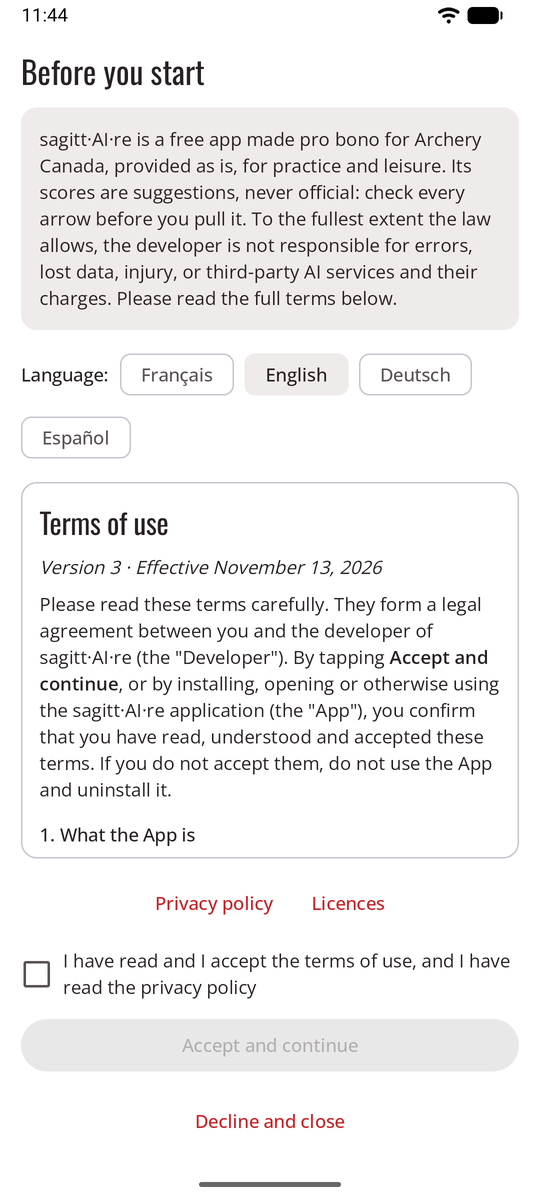
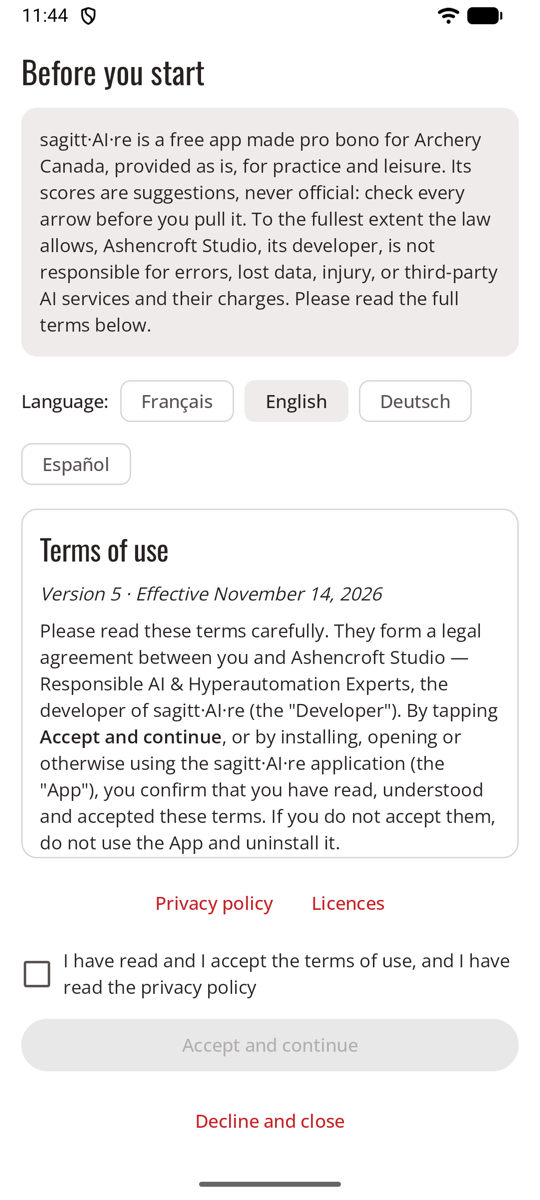
Update the sagitt·AI·re site

diff --git a/sagittaire/docs/index.fr.md b/sagittaire/docs/index.fr.md
@@ -166,4 +166,4 @@ Les mêmes données, le même comptage : choisissez celle qui vous plaît, et c
 
 sagitt·AI·re est un projet pro bono du Studio Ashencroft, en développement actif. Il fonctionne sur Android 8 et plus récent. **Il n’est pas sur Google Play :** on l’installe directement sur le téléphone. La [feuille de route](roadmap.md) montre ce qui est fait et ce qui vient. Utiliser sagitt·AI·re, c’est accepter ses [conditions d’utilisation](terms.md) : l’application est fournie telle quelle. Sa [politique de confidentialité](privacy-policy.md) explique ce qui reste sur votre téléphone et ce qui est envoyé.
 
[2 lines of base64/hex data omitted]

diff --git a/sagittaire/docs/terms.de.md b/sagittaire/docs/terms.de.md
@@ -1,10 +1,10 @@
 # Nutzungsbedingungen
 
-*Version 4 · Gültig ab 13. November 2026*
+*Version 5 · Gültig ab 14. November 2026*
 
 *Dies ist eine Übersetzung, die dir nur zur besseren Verständlichkeit bereitgestellt wird; maßgeblich sind allein die französische und die englische Fassung, die bei jeder Abweichung Vorrang haben.*
 
-Bitte lies diese Bedingungen sorgfältig. Sie bilden eine rechtliche Vereinbarung zwischen dir und dem Entwickler von sagitt·AI·re (der „Entwickler“). Indem du auf **Akzeptieren und weiter** tippst oder die Anwendung sagitt·AI·re (die „App“) installierst, öffnest oder auf andere Weise nutzt, bestätigst du, dass du diese Bedingungen gelesen, verstanden und akzeptiert hast. Wenn du sie nicht akzeptierst, nutze die App nicht und deinstalliere sie.
+Bitte lies diese Bedingungen sorgfältig. Sie bilden eine rechtliche Vereinbarung zwischen dir und Ashencroft Studio — Experten für verantwortungsvolle KI & Hyperautomatisierung, dem Entwickler von sagitt·AI·re (der „Entwickler“). Indem du auf **Akzeptieren und weiter** tippst oder die Anwendung sagitt·AI·re (die „App“) installierst, öffnest oder auf andere Weise nutzt, bestätigst du, dass du diese Bedingungen gelesen, verstanden und akzeptiert hast. Wenn du sie nicht akzeptierst, nutze die App nicht und deinstalliere sie.
 
 ## 1. Was die App ist
 

diff --git a/sagittaire/docs/index.es.md b/sagittaire/docs/index.es.md
@@ -166,4 +166,4 @@ Los mismos registros, la misma puntuación: elige la que te guste y cambia cuand
 
 sagitt·AI·re es un proyecto pro bono del Estudio Ashencroft, en desarrollo activo. Funciona en Android 8 y posteriores. **No está en Google Play:** se instala directamente en el teléfono. Consulta la [hoja de ruta](roadmap.md) para ver lo que está hecho y lo que viene. Usar sagitt·AI·re significa aceptar sus [condiciones de uso](terms.md): se ofrece tal cual. Su [política de privacidad](privacy-policy.md) explica qué se queda en tu teléfono y qué se envía.
 
[2 lines of base64/hex data omitted]

diff --git a/sagittaire/docs/index.de.md b/sagittaire/docs/index.de.md
@@ -166,4 +166,4 @@ Dieselben Daten, dieselbe Wertung: Nimm, was dir gefällt, und wechsle jederzeit
 
 sagitt·AI·re ist ein Pro-bono-Projekt von Ashencroft Studio und wird aktiv entwickelt. Es läuft ab Android 8. **Es ist nicht bei Google Play:** Die App wird direkt auf dem Handy installiert. In der [Roadmap](roadmap.md) steht, was fertig ist und was als Nächstes kommt. Wer sagitt·AI·re nutzt, akzeptiert seine [Nutzungsbedingungen](terms.md): Es wird bereitgestellt, wie es ist. Seine [Datenschutzerklärung](privacy-policy.md) erklärt, was auf deinem Handy bleibt und was gesendet wird.
 
[2 lines of base64/hex data omitted]

diff --git a/sagittaire/docs/terms.fr.md b/sagittaire/docs/terms.fr.md
@@ -1,8 +1,8 @@
 # Conditions d’utilisation
 
-*Version 4 · En vigueur le 13 novembre 2026*
+*Version 5 · En vigueur le 14 novembre 2026*
 
-Veuillez lire attentivement les présentes conditions. Elles constituent une entente juridique entre vous et le développeur de sagitt·AI·re (le « Développeur »). En touchant **Accepter et continuer**, ou en installant, en ouvrant ou en utilisant de toute autre façon l’application sagitt·AI·re (l’« Application »), vous confirmez avoir lu, compris et accepté les présentes conditions. Si vous ne les acceptez pas, n’utilisez pas l’Application et désinstallez-la.
+Veuillez lire attentivement les présentes conditions. Elles constituent une entente juridique entre vous et le Studio Ashencroft — Experts en IA & Hyper Automatisation Responsable, développeur de sagitt·AI·re (le « Développeur »). En touchant **Accepter et continuer**, ou en installant, en ouvrant ou en utilisant de toute autre façon l’application sagitt·AI·re (l’« Application »), vous confirmez avoir lu, compris et accepté les présentes conditions. Si vous ne les acceptez pas, n’utilisez pas l’Application et désinstallez-la.
 
 ## 1. L’Application
 

diff --git a/sagittaire/docs/index.md b/sagittaire/docs/index.md
@@ -166,4 +166,4 @@ Same records, same scoring: pick the one you like, and switch at any time in **S
 
 sagitt·AI·re is a pro bono project of Ashencroft Studio, in active development. It runs on Android 8 and later. **It isn't on Google Play:** it is installed directly on the phone. See the [roadmap](roadmap.md) for what's done and what's next. Using sagitt·AI·re means accepting its [terms of use](terms.md): it is provided as is. Its [privacy policy](privacy-policy.md) explains what stays on your phone and what is sent.
 
[2 lines of base64/hex data omitted]

diff --git a/sagittaire/docs/terms.es.md b/sagittaire/docs/terms.es.md
@@ -1,10 +1,10 @@
 # Condiciones de uso
 
-*Versión 4 · Vigente desde el 13 de noviembre de 2026*
+*Versión 5 · Vigente desde el 14 de noviembre de 2026*
 
 *Esta es una traducción que se ofrece solo para tu comodidad; únicamente las versiones en francés y en inglés hacen fe y, si hay cualquier diferencia, prevalecen sobre esta.*
 
-Lee atentamente estas condiciones. Constituyen un acuerdo legal entre tú y el desarrollador de sagitt·AI·re (el «Desarrollador»). Al tocar **Aceptar y continuar**, o al instalar, abrir o usar de cualquier otro modo la aplicación sagitt·AI·re (la «App»), confirmas que has leído, entendido y aceptado estas condiciones. Si no las aceptas, no uses la App y desinstálala.
+Lee atentamente estas condiciones. Constituyen un acuerdo legal entre tú y el Estudio Ashencroft — Expertos en IA y Hiperautomatización Responsables, desarrollador de sagitt·AI·re (el «Desarrollador»). Al tocar **Aceptar y continuar**, o al instalar, abrir o usar de cualquier otro modo la aplicación sagitt·AI·re (la «App»), confirmas que has leído, entendido y aceptado estas condiciones. Si no las aceptas, no uses la App y desinstálala.
 
 ## 1. Qué es la App
 

diff --git a/sagittaire/docs/normal.fr.md b/sagittaire/docs/normal.fr.md
@@ -41,7 +41,7 @@ Chaque page des réglages commence par une courte explication, puis ses choix.
 | **Langue** | Français, anglais, allemand, espagnol ou la langue du téléphone (Android 13 et plus récent). |
 | **Lieux enregistrés** | Renommer, fusionner ou supprimer les lieux de vos séances. Voir [Lieux enregistrés](sessions.md#lieux-enregistres). |
 | **Stockage et sauvegarde** | Espace utilisé, exporter, restaurer, libérer de l’espace. Voir [Stockage et sauvegarde](backup.md). |
-| **À propos et mentions légales** | La version, l’empreinte du certificat qui a signé cette copie ([la vérifier](index.md#ou-en-est-le-projet)), les [conditions d’utilisation](terms.md), la [politique de confidentialité](privacy-policy.md) et les [licences de logiciels libres](licences.md). |
+| **À propos et mentions légales** | La version, le développeur (Studio Ashencroft), les [conditions d’utilisation](terms.md), la [politique de confidentialité](privacy-policy.md) et les [licences de logiciels libres](licences.md). |
 
 ## Objectifs d’entraînement
 

diff --git a/sagittaire/docs/normal.es.md b/sagittaire/docs/normal.es.md
@@ -41,7 +41,7 @@ Cada página de Ajustes empieza con una breve explicación y luego sus opciones.
 | **Idioma** | Inglés, francés, alemán, español o el idioma del teléfono (Android 13 y posteriores). |
 | **Lugares guardados** | Cambiar el nombre, fusionar o eliminar los lugares de tus sesiones. Consulta [Lugares guardados](sessions.md#saved-places). |
 | **Almacenamiento y copia de seguridad** | Espacio usado, exportar, restaurar, liberar espacio. Consulta [Almacenamiento y copia de seguridad](backup.md). |
-| **Información y aviso legal** | La versión, la huella del certificado que firmó esta copia ([comprobarla](index.md#status)), las [condiciones de uso](terms.md), la [política de privacidad](privacy-policy.md) y las [licencias de código abierto](licences.md). |
+| **Información y aviso legal** | La versión, el desarrollador (Estudio Ashencroft), las [condiciones de uso](terms.md), la [política de privacidad](privacy-policy.md) y las [licencias de código abierto](licences.md). |
 
 ## Objetivos de entrenamiento { #training-goals }
 

diff --git a/sagittaire/docs/privacy-policy.de.md b/sagittaire/docs/privacy-policy.de.md
@@ -1,10 +1,10 @@
 # Datenschutzerklärung
 
-*Version 4 · Gültig ab 13. November 2026*
+*Version 5 · Gültig ab 14. November 2026*
 
 *Dies ist eine Übersetzung, die dir nur zur besseren Verständlichkeit bereitgestellt wird; maßgeblich sind allein die französische und die englische Fassung, die bei jeder Abweichung Vorrang haben.*
 
-Diese Erklärung beschreibt, welche Informationen die Anwendung sagitt·AI·re (die „App“) verarbeitet, wo sie aufbewahrt werden, wann sie dein Gerät verlassen und was du in Bezug auf sie tun kannst. Sie ist Teil der Nutzungsbedingungen. „Entwickler“ bezeichnet den Entwickler von sagitt·AI·re.
+Diese Erklärung beschreibt, welche Informationen die Anwendung sagitt·AI·re (die „App“) verarbeitet, wo sie aufbewahrt werden, wann sie dein Gerät verlassen und was du in Bezug auf sie tun kannst. Sie ist Teil der Nutzungsbedingungen. „Entwickler“ bezeichnet Ashencroft Studio — Experten für verantwortungsvolle KI & Hyperautomatisierung, den Entwickler von sagitt·AI·re.
 
 ## 1. Kurz gesagt
 

diff --git a/sagittaire/docs/normal.de.md b/sagittaire/docs/normal.de.md
@@ -41,7 +41,7 @@ Jede Einstellungsseite beginnt mit einer kurzen Erklärung, dann folgen ihre Opt
 | **Sprache** | Englisch, Französisch, Deutsch, Spanisch oder die Sprache des Handys (Android 13 und neuer). |
 | **Gespeicherte Orte** | Die Orte deiner Einheiten umbenennen, zusammenführen oder löschen. Siehe [Gespeicherte Orte](sessions.md#saved-places). |
 | **Speicher und Sicherung** | Belegter Speicher, Export, Wiederherstellen, Speicher freigeben. Siehe [Speicher und Sicherung](backup.md). |
-| **Info und Rechtliches** | Die Version, den Fingerabdruck des Zertifikats, mit dem diese Kopie signiert ist ([prüfen](index.md#status)), die [Nutzungsbedingungen](terms.md), die [Datenschutzerklärung](privacy-policy.md) und die [Open-Source-Lizenzen](licences.md). |
+| **Info und Rechtliches** | Die Version, den Entwickler (Ashencroft Studio), die [Nutzungsbedingungen](terms.md), die [Datenschutzerklärung](privacy-policy.md) und die [Open-Source-Lizenzen](licences.md). |
 
 ## Trainingsziele { #training-goals }
 

diff --git a/sagittaire/docs/privacy-policy.es.md b/sagittaire/docs/privacy-policy.es.md
@@ -1,10 +1,10 @@
 # Política de privacidad
 
-*Versión 4 · Vigente desde el 13 de noviembre de 2026*
+*Versión 5 · Vigente desde el 14 de noviembre de 2026*
 
 *Esta es una traducción que se ofrece solo para tu comodidad; únicamente las versiones en francés y en inglés hacen fe y, si hay cualquier diferencia, prevalecen sobre esta.*
 
-Esta política explica qué información trata la aplicación sagitt·AI·re (la «App»), dónde se guarda, cuándo sale de tu dispositivo y qué puedes hacer al respecto. Forma parte de las condiciones de uso. «Desarrollador» significa el desarrollador de sagitt·AI·re.
+Esta política explica qué información trata la aplicación sagitt·AI·re (la «App»), dónde se guarda, cuándo sale de tu dispositivo y qué puedes hacer al respecto. Forma parte de las condiciones de uso. «Desarrollador» significa el Estudio Ashencroft — Expertos en IA y Hiperautomatización Responsables, desarrollador de sagitt·AI·re.
 
 ## 1. En resumen
 
